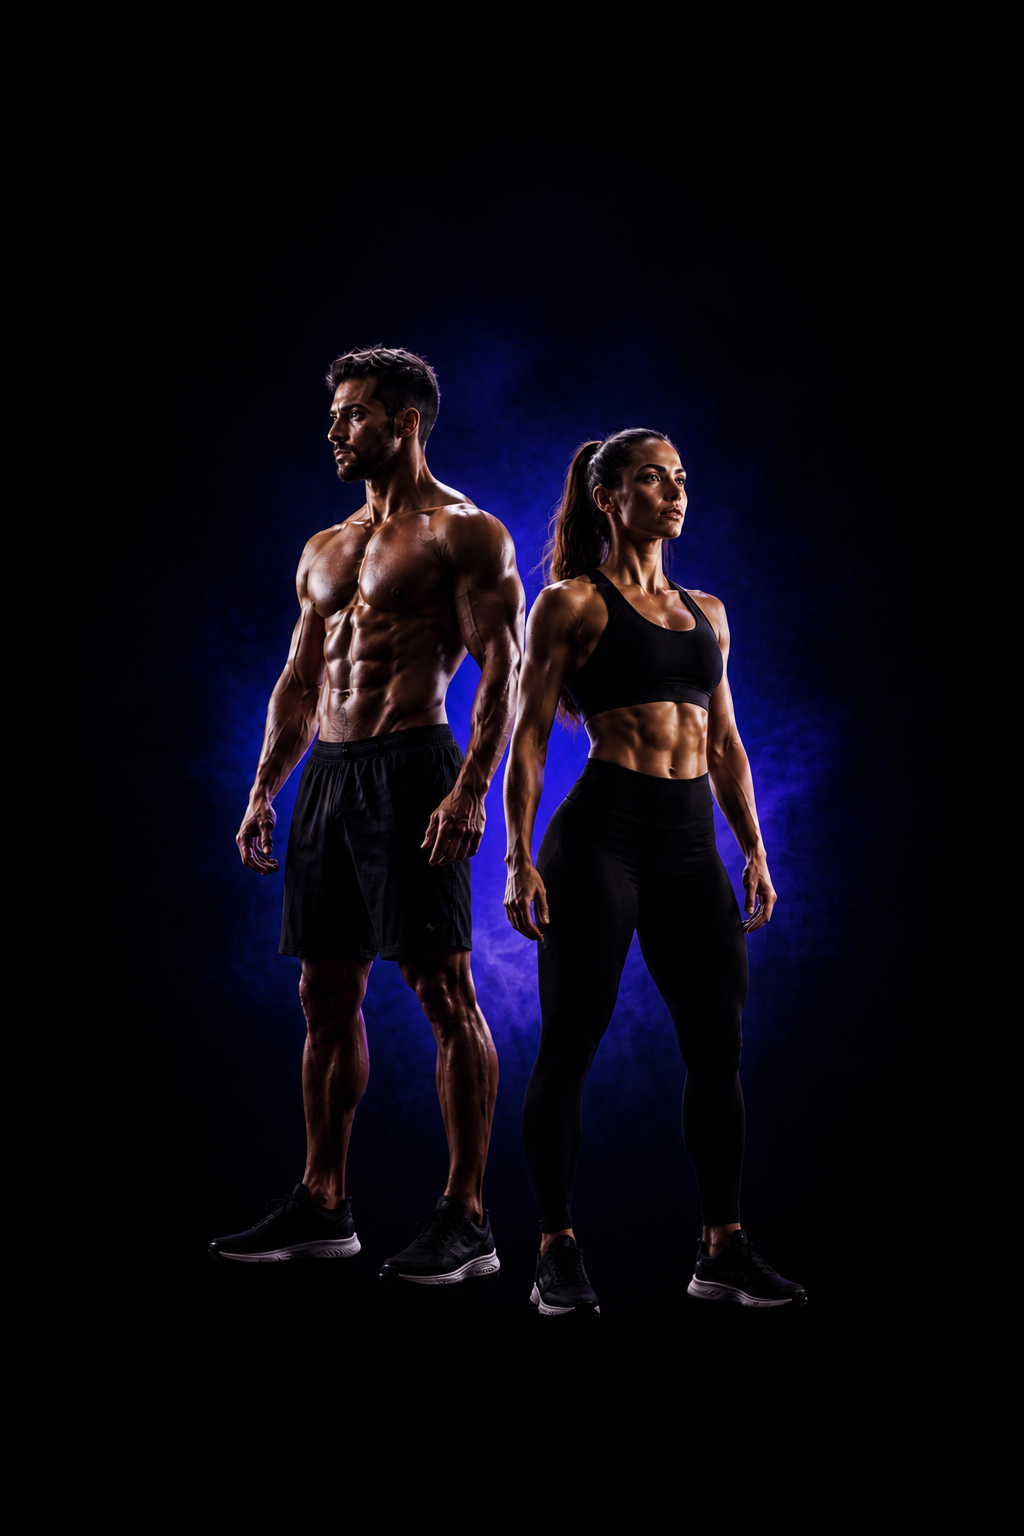
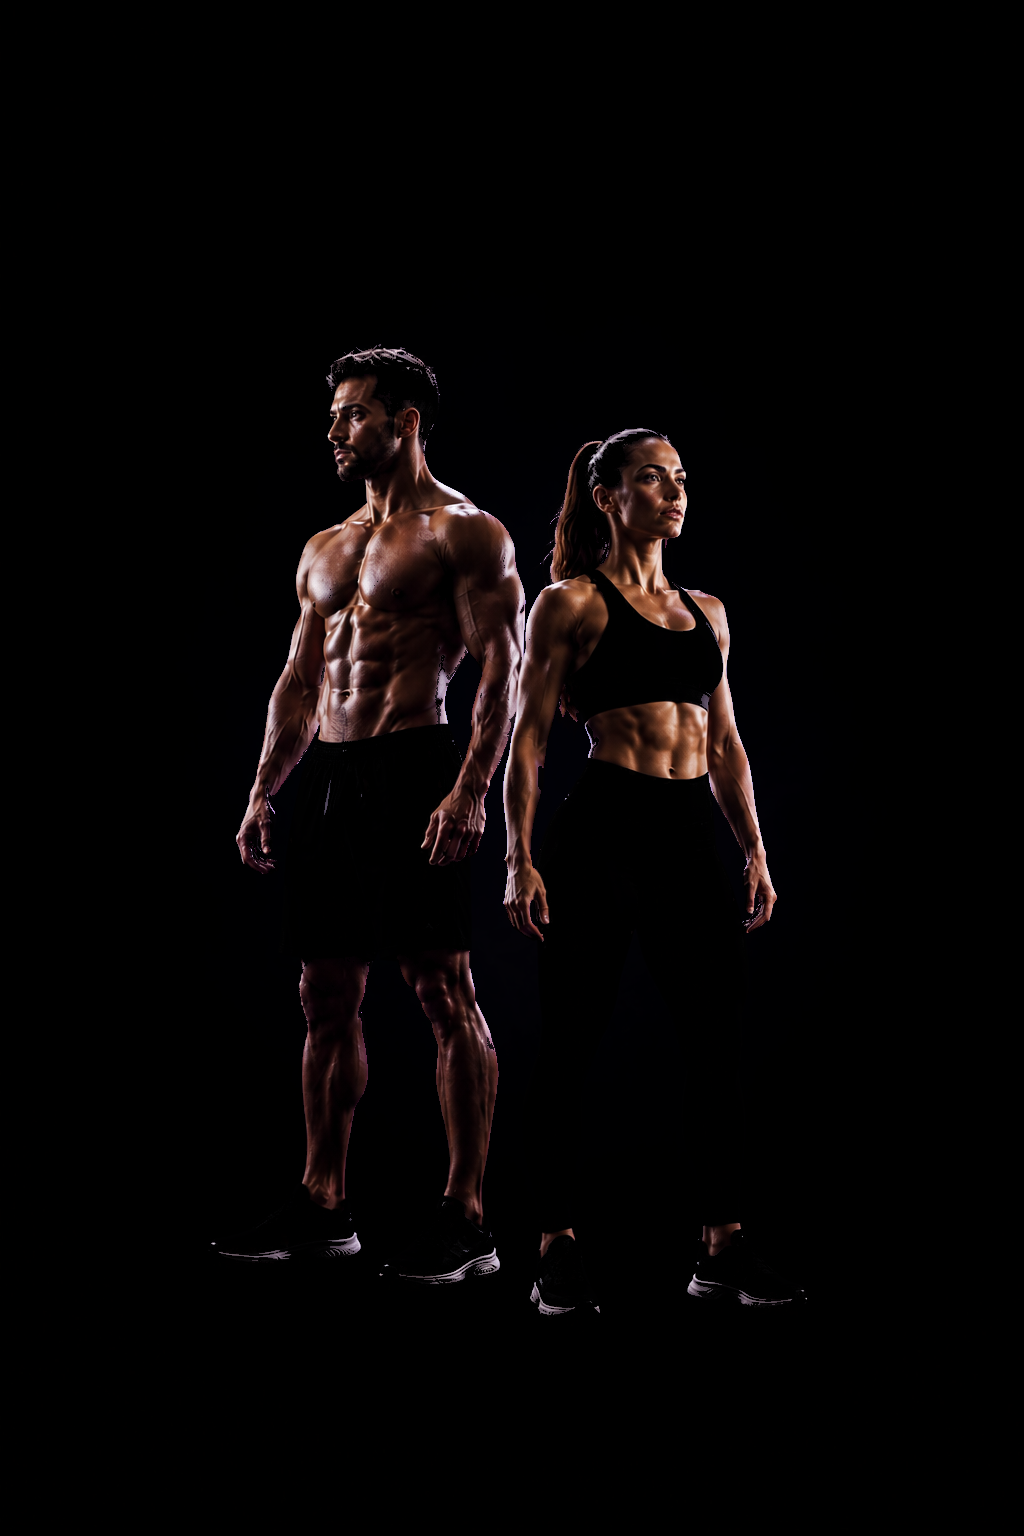
Replace the login athlete smoke cloud with a quiet studio backlight.

diff --git a/src/styles/auth.css b/src/styles/auth.css
@@ -116,7 +116,8 @@
   .auth-split__panel-inner,
   .auth-split__brand,
   .auth-split__privacy,
-  .login-hero-art {
+  .login-hero-art,
+  .login-hero-stage .evolua-pulse--mesh {
     animation: none;
   }
 }
@@ -345,10 +346,10 @@
   display: grid;
   grid-template-columns: 1fr;
   background:
-    radial-gradient(ellipse 58% 72% at 46% 52%, rgba(78, 58, 176, 0.16), transparent 68%),
-    radial-gradient(ellipse 32% 42% at 78% 28%, rgba(58, 110, 210, 0.08), transparent 62%),
-    radial-gradient(ellipse 40% 36% at 8% 88%, rgba(40, 48, 90, 0.18), transparent 58%),
-    linear-gradient(180deg, #070910 0%, #05070c 42%, #04060a 100%);
+    radial-gradient(ellipse 42% 38% at 12% 8%, rgba(77, 163, 255, 0.07), transparent 62%),
+    radial-gradient(ellipse 36% 32% at 88% 14%, rgba(118, 87, 255, 0.08), transparent 64%),
+    radial-gradient(ellipse 48% 28% at 50% 108%, rgba(138, 82, 245, 0.06), transparent 58%),
+    linear-gradient(180deg, #05070c 0%, #04060a 55%, #03050a 100%);
   color: var(--auth-text, #f8fafc);
   overflow: hidden;
 }
@@ -418,8 +419,68 @@
   width: auto;
   transform: translate(-50%, -50%);
   pointer-events: none;
-  -webkit-mask-image: linear-gradient(to right, transparent 0%, #000 16%, #000 84%, transparent 100%);
-  mask-image: linear-gradient(to right, transparent 0%, #000 16%, #000 84%, transparent 100%);
+  -webkit-mask-image: linear-gradient(to right, transparent 0%, #000 14%, #000 86%, transparent 100%);
+  mask-image: linear-gradient(to right, transparent 0%, #000 14%, #000 86%, transparent 100%);
+}
+
+.login-hero-stage {
+  position: absolute;
+  inset: 4% -4% 2%;
+  z-index: 0;
+  overflow: hidden;
+  pointer-events: none;
+}
+
+.login-hero-stage__beam {
+  position: absolute;
+  left: 50%;
+  top: 4%;
+  width: 12%;
+  height: 76%;
+  transform: translateX(-50%);
+  background: linear-gradient(
+    180deg,
+    rgba(77, 163, 255, 0.1) 0%,
+    rgba(118, 87, 255, 0.22) 42%,
+    rgba(138, 82, 245, 0.1) 72%,
+    transparent 100%
+  );
+  filter: blur(14px);
+  opacity: 0.7;
+}
+
+.login-hero-stage__core {
+  position: absolute;
+  left: 50%;
+  top: 18%;
+  width: 8%;
+  height: 48%;
+  transform: translateX(-50%);
+  background: linear-gradient(180deg, rgba(180, 210, 255, 0.18), rgba(118, 87, 255, 0.08) 70%, transparent);
+  filter: blur(8px);
+  opacity: 0.55;
+}
+
+.login-hero-stage__floor {
+  position: absolute;
+  left: 50%;
+  bottom: 9%;
+  width: 64%;
+  height: 14%;
+  transform: translateX(-50%);
+  background: radial-gradient(ellipse at 50% 40%, rgba(118, 87, 255, 0.22), transparent 70%);
+  filter: blur(16px);
+}
+
+.login-hero-stage .evolua-pulse--mesh {
+  position: absolute;
+  left: 6%;
+  right: 6%;
+  top: 16%;
+  bottom: 24%;
+  width: auto;
+  height: auto;
+  opacity: 0.28;
 }
 
 .login-hero-art {
@@ -427,7 +488,7 @@
   position: relative;
   left: auto;
   top: auto;
-  z-index: 0;
+  z-index: 1;
   width: auto;
   height: 100%;
   max-width: none;
@@ -437,8 +498,9 @@
   transform: none;
   pointer-events: none;
   user-select: none;
-  -webkit-mask-image: radial-gradient(ellipse 84% 90% at 50% 47%, #000 40%, rgba(0, 0, 0, 0.72) 62%, transparent 90%);
-  mask-image: radial-gradient(ellipse 84% 90% at 50% 47%, #000 40%, rgba(0, 0, 0, 0.72) 62%, transparent 90%);
+  filter: contrast(1.06) saturate(0.94) brightness(1.02);
+  -webkit-mask-image: radial-gradient(ellipse 70% 86% at 50% 48%, #000 42%, rgba(0, 0, 0, 0.75) 68%, transparent 88%);
+  mask-image: radial-gradient(ellipse 70% 86% at 50% 48%, #000 42%, rgba(0, 0, 0, 0.75) 68%, transparent 88%);
 }
 
 .auth-split__logo.evoluafit-logo,

diff --git a/src/components/auth/LoginHero.jsx b/src/components/auth/LoginHero.jsx
@@ -1,4 +1,5 @@
 import EvoluaFitLogo from '../branding/EvoluaFitLogo'
+import { EvoluaPulseMesh } from '../branding/EvoluaPulse'
 
 function ShieldIcon() {
   return (
@@ -97,9 +98,15 @@ export default function LoginHero() {
 
       <div className="auth-split__cast">
         <div className="login-hero-frame">
+          <div className="login-hero-stage" aria-hidden="true">
+            <span className="login-hero-stage__beam" />
+            <span className="login-hero-stage__core" />
+            <span className="login-hero-stage__floor" />
+            <EvoluaPulseMesh />
+          </div>
           <img
             className="login-hero-art"
-            src="/branding/evoluafit-login-athletes.png?v=fullbody-2"
+            src="/branding/evoluafit-login-athletes.png?v=studio-2"
             alt=""
             decoding="async"
             fetchPriority="high"
